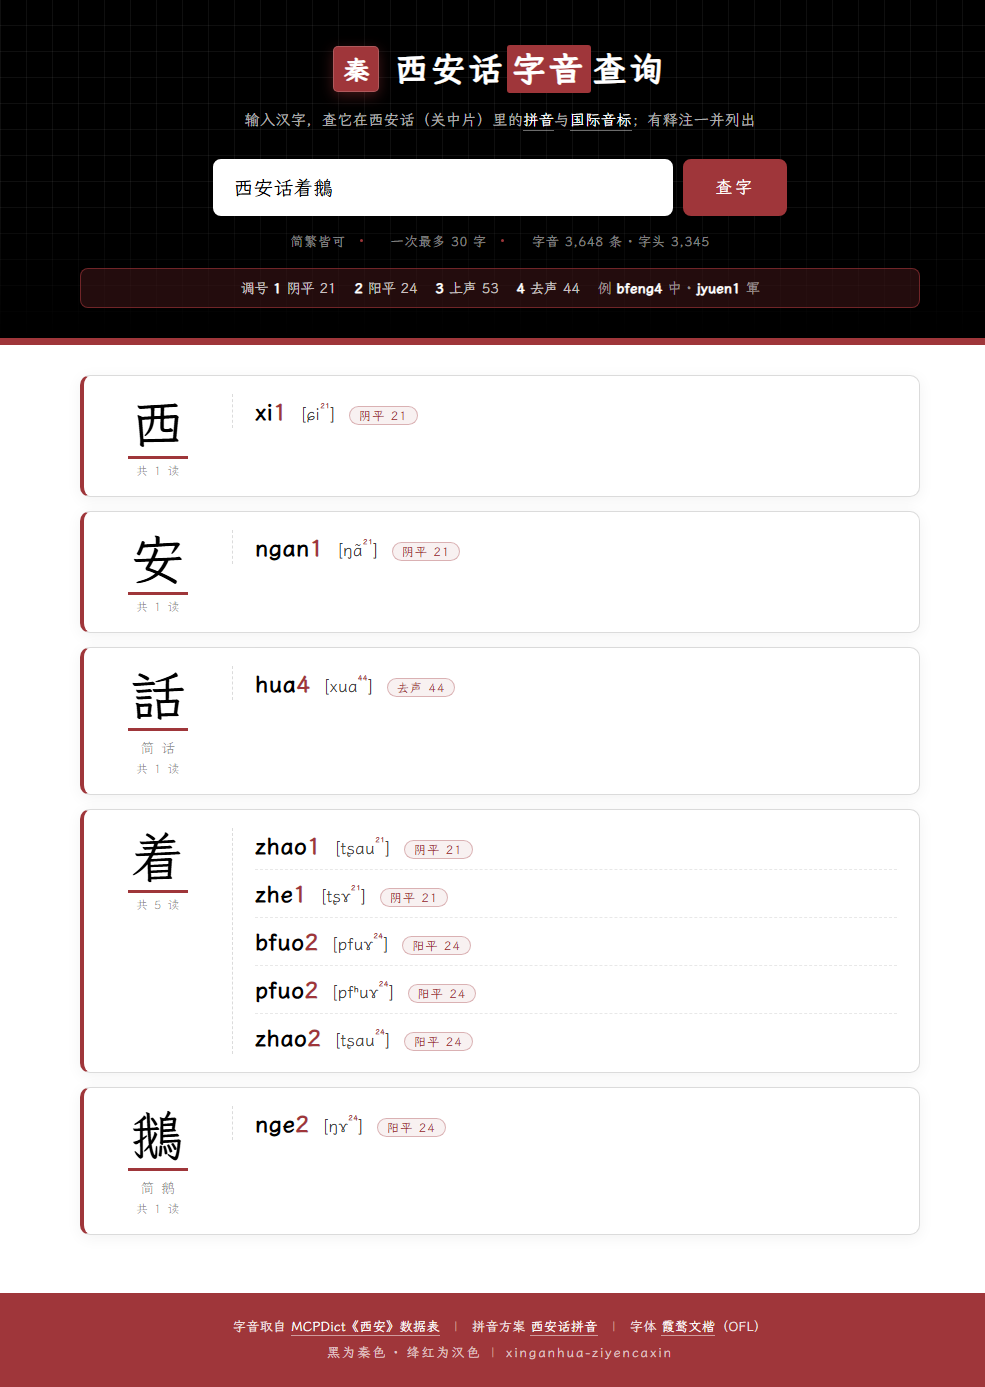
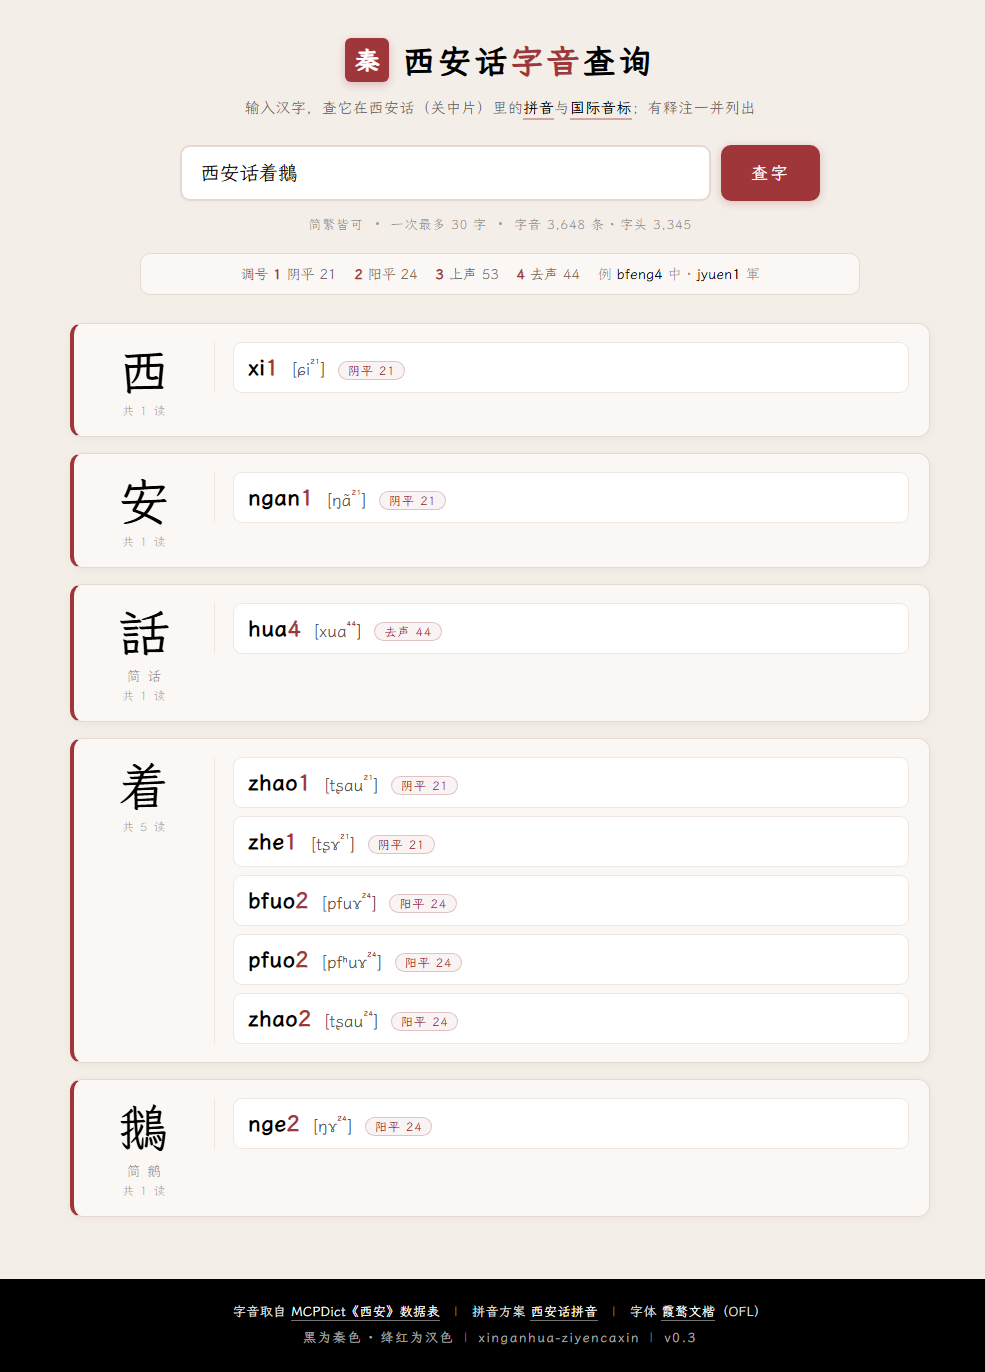
换成纸白多层版式：暖纸底 / 浅色卡片 / 白色读音块 / 墨黑页脚
黑首屏太重，改成照吴语查询站的多层背景做法，只是把蓝系换成黑·白·绛红：
页面暖纸底 #F4EEE9 → 卡片 #FBF7F4 → 每条读音白底圆角块 → 页脚墨黑；
绛红用于印章、按钮、卡片左边、调号、音标调值与释注底色。
页脚版本号同步 v0.3，README 截图更新。

diff --git a/index.html b/index.html
@@ -17,217 +17,204 @@
   --ink:#000000;
   --paper:#ffffff;
   --crimson:#9F363A;
-  --hair:rgba(0,0,0,.14);
-  --muted:rgba(0,0,0,.62);
-  --faint:rgba(0,0,0,.44);
-  --wash:rgba(159,54,58,.07);
+  --bg:#F4EEE9;          /* 纸：页面底 */
+  --bg-card:#FBF7F4;     /* 浅：卡片 */
+  --bg-deep:#F1E7E2;     /* 深：分区/标签 */
+  --line:#E7D9D2;
+  --line-soft:#F0E6E1;
+  --text:#1C1512;
+  --muted:rgba(28,21,18,.62);
+  --faint:rgba(28,21,18,.45);
   --serif:"LXGW WenKai","SimSun-ExtB","MingLiU-ExtB","I.Ming","HanaMinB","BabelStone Han","Songti SC","Noto Serif CJK SC",Georgia,"SimSun",serif;
 }
 html,body{height:100%}
 body{
   min-height:100vh;display:flex;flex-direction:column;
-  font-family:var(--serif);color:var(--ink);background:var(--paper);
+  font-family:var(--serif);color:var(--text);background:var(--bg);
   -webkit-text-size-adjust:100%;-webkit-font-smoothing:antialiased;
   -webkit-tap-highlight-color:transparent;
 }
 
-/* ───────── 黑色首屏（秦） ───────── */
-.hero{position:relative;flex-shrink:0;background:var(--ink);color:var(--paper);overflow:hidden}
-.hero-grid{
-  position:absolute;inset:0;pointer-events:none;
-  background-image:
-    linear-gradient(90deg,rgba(255,255,255,.06) 1px,transparent 1px),
-    linear-gradient(0deg,rgba(255,255,255,.06) 1px,transparent 1px);
-  background-size:26px 26px;
-  -webkit-mask-image:linear-gradient(to bottom,#000 0%,#000 58%,transparent 100%);
-  mask-image:linear-gradient(to bottom,#000 0%,#000 58%,transparent 100%);
-}
-.hero-inner{position:relative;max-width:880px;margin:0 auto;padding:46px 20px 30px;text-align:center}
-.brand{display:flex;align-items:center;justify-content:center;gap:15px;flex-wrap:wrap}
+/* ───────── 页头 ───────── */
+.site-header{padding:38px 20px 0;text-align:center}
+.brand{display:inline-flex;align-items:center;justify-content:center;gap:13px;flex-wrap:wrap}
 .seal{
   display:inline-flex;align-items:center;justify-content:center;
-  width:46px;height:46px;flex-shrink:0;
-  background:var(--crimson);color:var(--paper);
-  border-radius:5px;font-size:25px;font-weight:700;letter-spacing:0;
-  box-shadow:inset 0 0 0 1px rgba(255,255,255,.18),0 4px 14px rgba(159,54,58,.4);
+  width:44px;height:44px;flex-shrink:0;
+  background:var(--crimson);color:var(--paper);border-radius:6px;
+  font-size:24px;font-weight:700;letter-spacing:0;
+  box-shadow:0 3px 10px rgba(159,54,58,.28);
 }
-h1{font-size:2.1em;font-weight:700;letter-spacing:.1em;line-height:1.25;color:var(--paper)}
-/* 「字音」用绛红底白字，黑底上才够清楚，也让绛红占到面积 */
-h1 .accent{
-  background:var(--crimson);color:var(--paper);
-  padding:.02em .16em .06em;border-radius:3px;margin:0 .04em;
-}
-.subtitle{margin-top:14px;font-size:.95em;line-height:1.75;color:rgba(255,255,255,.7);letter-spacing:.02em}
-.subtitle b{font-weight:400;color:var(--paper);border-bottom:1px solid rgba(255,255,255,.42);padding-bottom:1px}
+h1{font-size:2.05em;font-weight:700;letter-spacing:.1em;line-height:1.25;color:var(--ink)}
+h1 .accent{color:var(--crimson)}
+.subtitle{margin-top:12px;font-size:.95em;line-height:1.75;color:var(--muted);letter-spacing:.02em}
+.subtitle b{font-weight:400;color:var(--ink);border-bottom:2px solid rgba(159,54,58,.4);padding-bottom:1px}
 
-.search-box{display:flex;gap:10px;justify-content:center;align-items:stretch;margin-top:26px;min-width:0}
+.search-box{display:flex;gap:10px;justify-content:center;align-items:stretch;margin:24px auto 0;max-width:640px;min-width:0}
 #charInput{
-  flex:0 1 460px;max-width:100%;min-width:0;
-  padding:13px 18px;font-family:var(--serif);font-size:1.25em;color:var(--ink);
-  background:var(--paper);border:2px solid var(--paper);border-radius:8px;outline:none;
+  flex:1 1 auto;max-width:100%;min-width:0;
+  padding:13px 18px;font-family:var(--serif);font-size:1.22em;color:var(--text);
+  background:var(--paper);border:2px solid var(--line);border-radius:10px;outline:none;
+  box-shadow:0 1px 2px rgba(28,21,18,.03);
   transition:border-color .15s,box-shadow .15s;
 }
-#charInput::placeholder{color:rgba(0,0,0,.38);font-size:.84em;letter-spacing:.02em}
-#charInput:focus{border-color:var(--crimson);box-shadow:0 0 0 4px rgba(159,54,58,.3)}
+#charInput::placeholder{color:rgba(28,21,18,.34);font-size:.84em;letter-spacing:.02em}
+#charInput:focus{border-color:var(--crimson);box-shadow:0 0 0 4px rgba(159,54,58,.13)}
 #searchBtn{
-  padding:13px 30px;font-family:var(--serif);font-size:1.06em;letter-spacing:.16em;
+  padding:13px 28px;font-family:var(--serif);font-size:1.05em;letter-spacing:.16em;
   color:var(--paper);background:var(--crimson);border:2px solid var(--crimson);
-  border-radius:8px;cursor:pointer;white-space:nowrap;transition:background .15s,border-color .15s;
+  border-radius:10px;cursor:pointer;white-space:nowrap;
+  box-shadow:0 2px 10px rgba(159,54,58,.26);
+  transition:background .15s,border-color .15s,box-shadow .15s;
 }
 #searchBtn:hover{background:#7E2A2E;border-color:#7E2A2E}
 #searchBtn:active{background:#6C2427;border-color:#6C2427}
-#searchBtn:focus-visible{outline:3px solid rgba(255,255,255,.55);outline-offset:2px}
+#searchBtn:focus-visible{outline:3px solid rgba(159,54,58,.35);outline-offset:2px}
 #searchBtn:disabled{opacity:.55;cursor:progress}
 
 .meta-row{
-  display:flex;flex-wrap:wrap;gap:6px 14px;justify-content:center;align-items:center;
-  margin-top:16px;font-size:.84em;color:rgba(255,255,255,.52);letter-spacing:.03em;
+  display:flex;flex-wrap:wrap;gap:6px 0;justify-content:center;align-items:center;
+  margin-top:14px;font-size:.84em;color:var(--faint);letter-spacing:.03em;
 }
-.meta-row .dot{display:inline-block;width:3px;height:3px;border-radius:50%;background:var(--crimson);margin-right:14px;vertical-align:middle}
+.meta-row .dot{display:inline-block;width:3px;height:3px;border-radius:50%;background:rgba(159,54,58,.55);margin:0 12px;vertical-align:middle}
 
 .legend{
-  display:flex;flex-wrap:wrap;gap:7px 18px;justify-content:center;align-items:center;
-  margin-top:18px;padding:10px 16px;font-size:.85em;letter-spacing:.02em;
-  color:rgba(255,255,255,.76);
-  background:rgba(159,54,58,.22);
-  border:1px solid rgba(159,54,58,.62);border-radius:8px;
+  display:flex;flex-wrap:wrap;gap:6px 18px;justify-content:center;align-items:center;
+  max-width:720px;margin:20px auto 0;padding:11px 16px;
+  background:var(--bg-card);border:1px solid var(--line);border-radius:10px;
+  font-size:.85em;letter-spacing:.02em;color:var(--muted);
 }
-.legend b{color:var(--paper);font-weight:700}
-.legend .ex{color:rgba(255,255,255,.55)}
-.legend .ex b{color:var(--paper)}
+.legend b{color:var(--crimson);font-weight:700}
+.legend .ex{color:var(--faint)}
+.legend .ex b{color:var(--ink);font-weight:400}
 
-/* 绛红分隔带（汉） */
-.crimson-rule{height:7px;flex-shrink:0;background:var(--crimson)}
-
-/* ───────── 白色结果区 ───────── */
-main{flex:1 0 auto;background:var(--paper)}
-.container{max-width:880px;margin:0 auto;padding:28px 20px 44px}
+/* ───────── 结果区 ───────── */
+main{flex:1 0 auto}
+.container{max-width:900px;margin:0 auto;padding:26px 20px 46px}
 
 .error-msg{
-  margin:4px 0 18px;padding:13px 16px;text-align:center;font-size:.95em;
-  color:var(--crimson);background:var(--wash);
-  border:1px solid rgba(159,54,58,.4);border-radius:8px;
+  margin:2px 0 18px;padding:12px 16px;text-align:center;font-size:.95em;
+  color:var(--crimson);background:#FBF1F0;
+  border:1px solid rgba(159,54,58,.32);border-radius:10px;
 }
 .no-result{margin:22px 0;text-align:center;color:var(--muted);font-size:.95em}
 .results{margin-top:2px}
 
 .card{
-  background:var(--paper);
-  border:1px solid var(--hair);border-left:4px solid var(--crimson);
-  border-radius:10px;padding:18px 22px;margin-bottom:14px;
-  box-shadow:0 3px 16px rgba(0,0,0,.055);
+  background:var(--bg-card);
+  border:1px solid var(--line);border-left:4px solid var(--crimson);
+  border-radius:12px;padding:18px 20px;margin-bottom:16px;
+  box-shadow:0 2px 10px rgba(28,21,18,.045);
 }
-.card-head{display:flex;align-items:flex-start;gap:22px}
-.glyph{flex:0 0 auto;text-align:center;min-width:104px}
-.glyph .main{
-  font-size:3.4em;line-height:1.1;font-weight:400;
-  display:inline-block;border-bottom:3px solid var(--crimson);padding:0 .06em .04em;
-}
-.glyph .alt{margin-top:8px;font-size:.86em;letter-spacing:.08em;color:var(--faint)}
-.glyph .count{margin-top:4px;font-size:.74em;letter-spacing:.08em;color:var(--faint)}
+.card-head{display:flex;align-items:flex-start;gap:20px}
+.glyph{flex:0 0 auto;text-align:center;min-width:100px}
+.glyph .main{font-size:3.2em;line-height:1.15;font-weight:400;color:var(--ink)}
+.glyph .alt{margin-top:5px;font-size:.85em;letter-spacing:.08em;color:var(--faint)}
+.glyph .count{margin-top:3px;font-size:.73em;letter-spacing:.08em;color:rgba(28,21,18,.38)}
 .glyph .tag{
   display:inline-block;margin-top:8px;padding:1px 9px;font-size:.72em;letter-spacing:.06em;
-  color:var(--crimson);border:1px solid rgba(159,54,58,.42);border-radius:999px;background:var(--wash);
+  color:var(--crimson);border:1px solid rgba(159,54,58,.34);border-radius:999px;background:#F7ECEA;
 }
-.readings{flex:1 1 auto;min-width:0;border-left:1px dashed var(--hair);padding-left:22px}
-.reading{padding:9px 0;border-bottom:1px dashed rgba(0,0,0,.09)}
-.reading:last-child{border-bottom:0;padding-bottom:2px}
-.reading:first-child{padding-top:3px}
-.read-line{display:flex;align-items:baseline;gap:13px;flex-wrap:wrap}
-.py{font-size:1.42em;font-weight:700;letter-spacing:.02em}
+.readings{flex:1 1 auto;min-width:0;display:flex;flex-direction:column;gap:8px;border-left:1px solid var(--line-soft);padding-left:18px}
+.reading{
+  background:var(--paper);border:1px solid var(--line-soft);border-radius:9px;
+  padding:10px 14px 11px;
+}
+.read-line{display:flex;align-items:baseline;gap:12px;flex-wrap:wrap}
+.py{font-size:1.36em;font-weight:700;letter-spacing:.02em;color:var(--ink)}
 .py .tn{color:var(--crimson)}
-.ipa{font-size:1.06em;color:rgba(0,0,0,.76)}
+.ipa{font-size:1.04em;color:rgba(28,21,18,.74)}
 .ipa .tone{font-size:.8em;vertical-align:super;color:var(--crimson);letter-spacing:0}
 .tone-tag{
-  font-size:.75em;letter-spacing:.1em;color:var(--crimson);
-  padding:1px 9px;border:1px solid rgba(159,54,58,.34);border-radius:999px;background:var(--wash);
+  font-size:.74em;letter-spacing:.08em;color:var(--crimson);
+  padding:1px 9px;border:1px solid rgba(159,54,58,.26);border-radius:999px;background:rgba(159,54,58,.06);
 }
 .note{
-  margin-top:6px;padding-left:10px;font-size:.88em;line-height:1.65;color:var(--muted);
-  border-left:2px solid rgba(159,54,58,.5);
+  margin-top:7px;padding:6px 10px;font-size:.86em;line-height:1.65;color:var(--muted);
+  background:#F8F0ED;border-left:2px solid rgba(159,54,58,.42);border-radius:0 6px 6px 0;
 }
 .note .lbl{color:var(--crimson);margin-right:5px}
 
-.missing{border-left-color:rgba(0,0,0,.22)}
-.missing .glyph .main{color:var(--faint);border-bottom-color:rgba(0,0,0,.22)}
-.missing-tip{color:var(--muted);font-size:.95em}
+.missing{border-left-color:rgba(28,21,18,.24)}
+.missing .glyph .main{color:var(--faint)}
+.missing-tip{color:var(--muted);font-size:.95em;padding:6px 0}
 
-/* 首屏下方的引导 */
-.empty{margin:26px auto 0;max-width:660px;text-align:center}
-.empty .lead{font-size:1em;letter-spacing:.06em;color:var(--muted)}
-.empty .lead b{color:var(--ink);font-weight:400;border-bottom:2px solid rgba(159,54,58,.55);padding-bottom:1px}
+/* 引导 */
+.empty{margin:20px auto 0;max-width:680px;text-align:center}
+.empty .lead{font-size:1em;letter-spacing:.04em;color:var(--muted)}
+.empty .lead b{color:var(--ink);font-weight:400;border-bottom:2px solid rgba(159,54,58,.45);padding-bottom:1px}
 .chips{display:flex;flex-wrap:wrap;gap:9px;justify-content:center;margin-top:16px}
 .chip{
   font-family:var(--serif);font-size:1em;letter-spacing:.04em;
-  padding:7px 16px;background:var(--paper);color:var(--ink);
-  border:1px solid var(--hair);border-radius:999px;cursor:pointer;transition:all .15s;
+  padding:7px 16px;background:var(--paper);color:var(--text);
+  border:1px solid var(--line);border-radius:999px;cursor:pointer;
+  transition:border-color .15s,color .15s,background .15s,transform .1s;
 }
-.chip:hover{border-color:var(--crimson);color:var(--crimson);background:var(--wash)}
+.chip:hover{border-color:var(--crimson);color:var(--crimson);background:#FBF3F1}
+.chip:active{transform:translateY(1px)}
 #results:not(:empty) ~ .empty{display:none}
 
-/* ───────── 绛红页脚（汉） ───────── */
+/* ───────── 页脚（墨） ───────── */
 footer{
-  flex-shrink:0;background:var(--crimson);color:rgba(255,255,255,.88);
-  padding:20px 20px 22px;text-align:center;font-size:.84em;line-height:1.95;
+  flex-shrink:0;background:var(--ink);color:rgba(255,255,255,.88);
+  padding:19px 20px 21px;text-align:center;font-size:.84em;line-height:1.95;
 }
-footer a{color:var(--paper);text-decoration:none;border-bottom:1px solid rgba(255,255,255,.5)}
+footer a{color:var(--paper);text-decoration:none;border-bottom:1px solid rgba(255,255,255,.45)}
 footer a:hover{border-bottom-color:var(--paper)}
-footer .sep{margin:0 9px;color:rgba(255,255,255,.42)}
-footer .sig{letter-spacing:.12em;color:rgba(255,255,255,.72)}
+footer .sep{margin:0 9px;color:rgba(255,255,255,.38)}
+footer .sig{letter-spacing:.1em;color:rgba(255,255,255,.66)}
+footer .sig .seal-dot{color:var(--crimson)}
 
 @media (max-width:600px){
-  .hero-inner{padding:30px 16px 24px}
-  .seal{width:38px;height:38px;font-size:21px}
-  h1{font-size:1.6em;letter-spacing:.06em}
-  .subtitle{font-size:.9em}
-  .search-box{flex-direction:column;margin-top:20px}
-  #charInput{flex:1 1 auto;width:100%;min-width:0}
+  .site-header{padding:26px 16px 0}
+  .seal{width:36px;height:36px;font-size:20px}
+  h1{font-size:1.58em;letter-spacing:.06em}
+  .subtitle{font-size:.88em;line-height:1.7}
+  .search-box{flex-direction:column;margin-top:18px}
+  #charInput{width:100%}
   #searchBtn{width:100%;letter-spacing:.2em}
   .legend{gap:5px 12px;font-size:.8em;padding:9px 10px}
-  .container{padding:20px 14px 34px}
-  .card{padding:15px 15px}
+  .container{padding:18px 14px 34px}
+  .card{padding:14px}
   .card-head{gap:12px}
-  .glyph{min-width:76px}
-  .glyph .main{font-size:2.7em}
-  .readings{padding-left:14px}
-  .py{font-size:1.24em}
+  .glyph{min-width:72px}
+  .glyph .main{font-size:2.55em}
+  .readings{padding-left:12px;gap:7px}
+  .reading{padding:9px 11px 10px}
+  .py{font-size:1.2em}
+  .ipa{font-size:.98em}
   footer{font-size:.78em}
 }
 </style>
 </head>
 <body>
-<header class="hero">
-  <div class="hero-grid" aria-hidden="true"></div>
-  <div class="hero-inner">
-    <div class="brand">
-      <span class="seal" aria-hidden="true">秦</span>
-      <h1>西安话<span class="accent">字音</span>查询</h1>
-    </div>
-    <p class="subtitle">输入汉字，查它在西安话（关中片）里的<b>拼音</b>与<b>国际音标</b>；有释注一并列出</p>
+<header class="site-header">
+  <div class="brand">
+    <span class="seal" aria-hidden="true">秦</span>
+    <h1>西安话<span class="accent">字音</span>查询</h1>
+  </div>
+  <p class="subtitle">输入汉字，查它在西安话（关中片）里的<b>拼音</b>与<b>国际音标</b>；有释注一并列出</p>
 
-    <form class="search-box" id="searchForm" autocomplete="off">
-      <input id="charInput" type="text" maxlength="60" spellcheck="false"
-             placeholder="输入汉字，如：西安话 着 鵝" aria-label="输入汉字">
-      <button id="searchBtn" type="submit">查字</button>
-    </form>
+  <form class="search-box" id="searchForm" autocomplete="off">
+    <input id="charInput" type="text" maxlength="60" spellcheck="false"
+           placeholder="输入汉字，如：西安话 着 鵝" aria-label="输入汉字">
+    <button id="searchBtn" type="submit">查字</button>
+  </form>
 
-    <div class="meta-row">
-      <span>简繁皆可</span><span class="dot"></span>
-      <span>一次最多 30 字</span><span class="dot"></span>
-      <span>字音 3,648 条 · 字头 3,345</span>
-    </div>
+  <div class="meta-row">
+    <span>简繁皆可</span><span class="dot"></span>
+    <span>一次最多 30 字</span><span class="dot"></span>
+    <span>字音 3,648 条 · 字头 3,345</span>
+  </div>
 
-    <div class="legend">
-      <span>调号 <b>1</b> 阴平 21</span>
-      <span><b>2</b> 阳平 24</span>
-      <span><b>3</b> 上声 53</span>
-      <span><b>4</b> 去声 44</span>
-      <span class="ex">例 <b>bfeng4</b> 中 · <b>jyuen1</b> 軍</span>
-    </div>
+  <div class="legend">
+    <span>调号 <b>1</b> 阴平 21</span>
+    <span><b>2</b> 阳平 24</span>
+    <span><b>3</b> 上声 53</span>
+    <span><b>4</b> 去声 44</span>
+    <span class="ex">例 <b>bfeng4</b> 中 · <b>jyuen1</b> 軍</span>
   </div>
 </header>
-
-<div class="crimson-rule" aria-hidden="true"></div>
 
 <main>
   <div class="container">
@@ -256,7 +243,7 @@ footer .sig{letter-spacing:.12em;color:rgba(255,255,255,.72)}
     <span class="sep">|</span>
     字体 <a href="https://github.com/lxgw/LxgwWenKai" target="_blank" rel="noopener">霞鹜文楷</a>（OFL）
   </div>
-  <div class="sig">黑为秦色 · 绛红为汉色<span class="sep">|</span>xinganhua-ziyencaxin<span class="sep">|</span>v0.2</div>
+  <div class="sig">黑为秦色 · 绛红为汉色<span class="sep">|</span>xinganhua-ziyencaxin<span class="sep">|</span>v0.3</div>
 </footer>
 
 <script>
